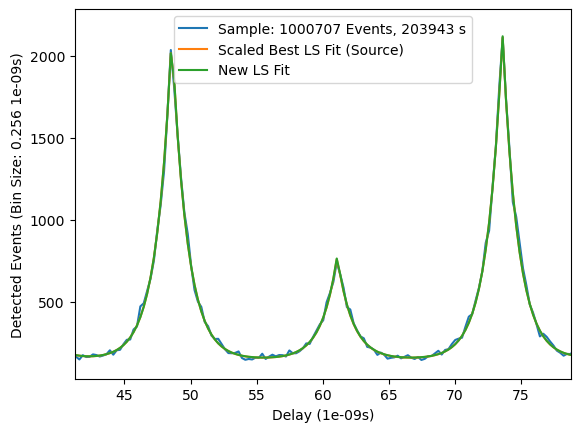
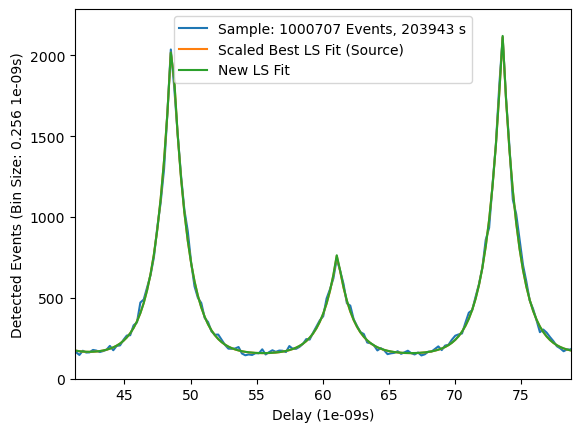
Finalise Public Release
This codebase updates histogram plots to have a minimum y-axis limit of zero, allowing no_bg figures to look more striking.
Having tested this, there seems to be nothing more to do ahead of public release.

diff --git a/code/plot.py b/code/plot.py
@@ -55,6 +55,9 @@ def plot_event_histogram(in_hist, in_axis_delays, in_constants,
     if do_logarithmic_scale:
         plt.yscale("log")
         ax_sample.legend(loc="upper right", framealpha=1)
+    else:
+        _, ylim_max = ax_sample.get_ylim()
+        ax_sample.set_ylim([0, ylim_max])
     if not (do_only_closeup and in_xlim_closeup is not None):
         fig_sample.savefig(in_save_prefix + "_hist.png",
                            bbox_inches="tight")
